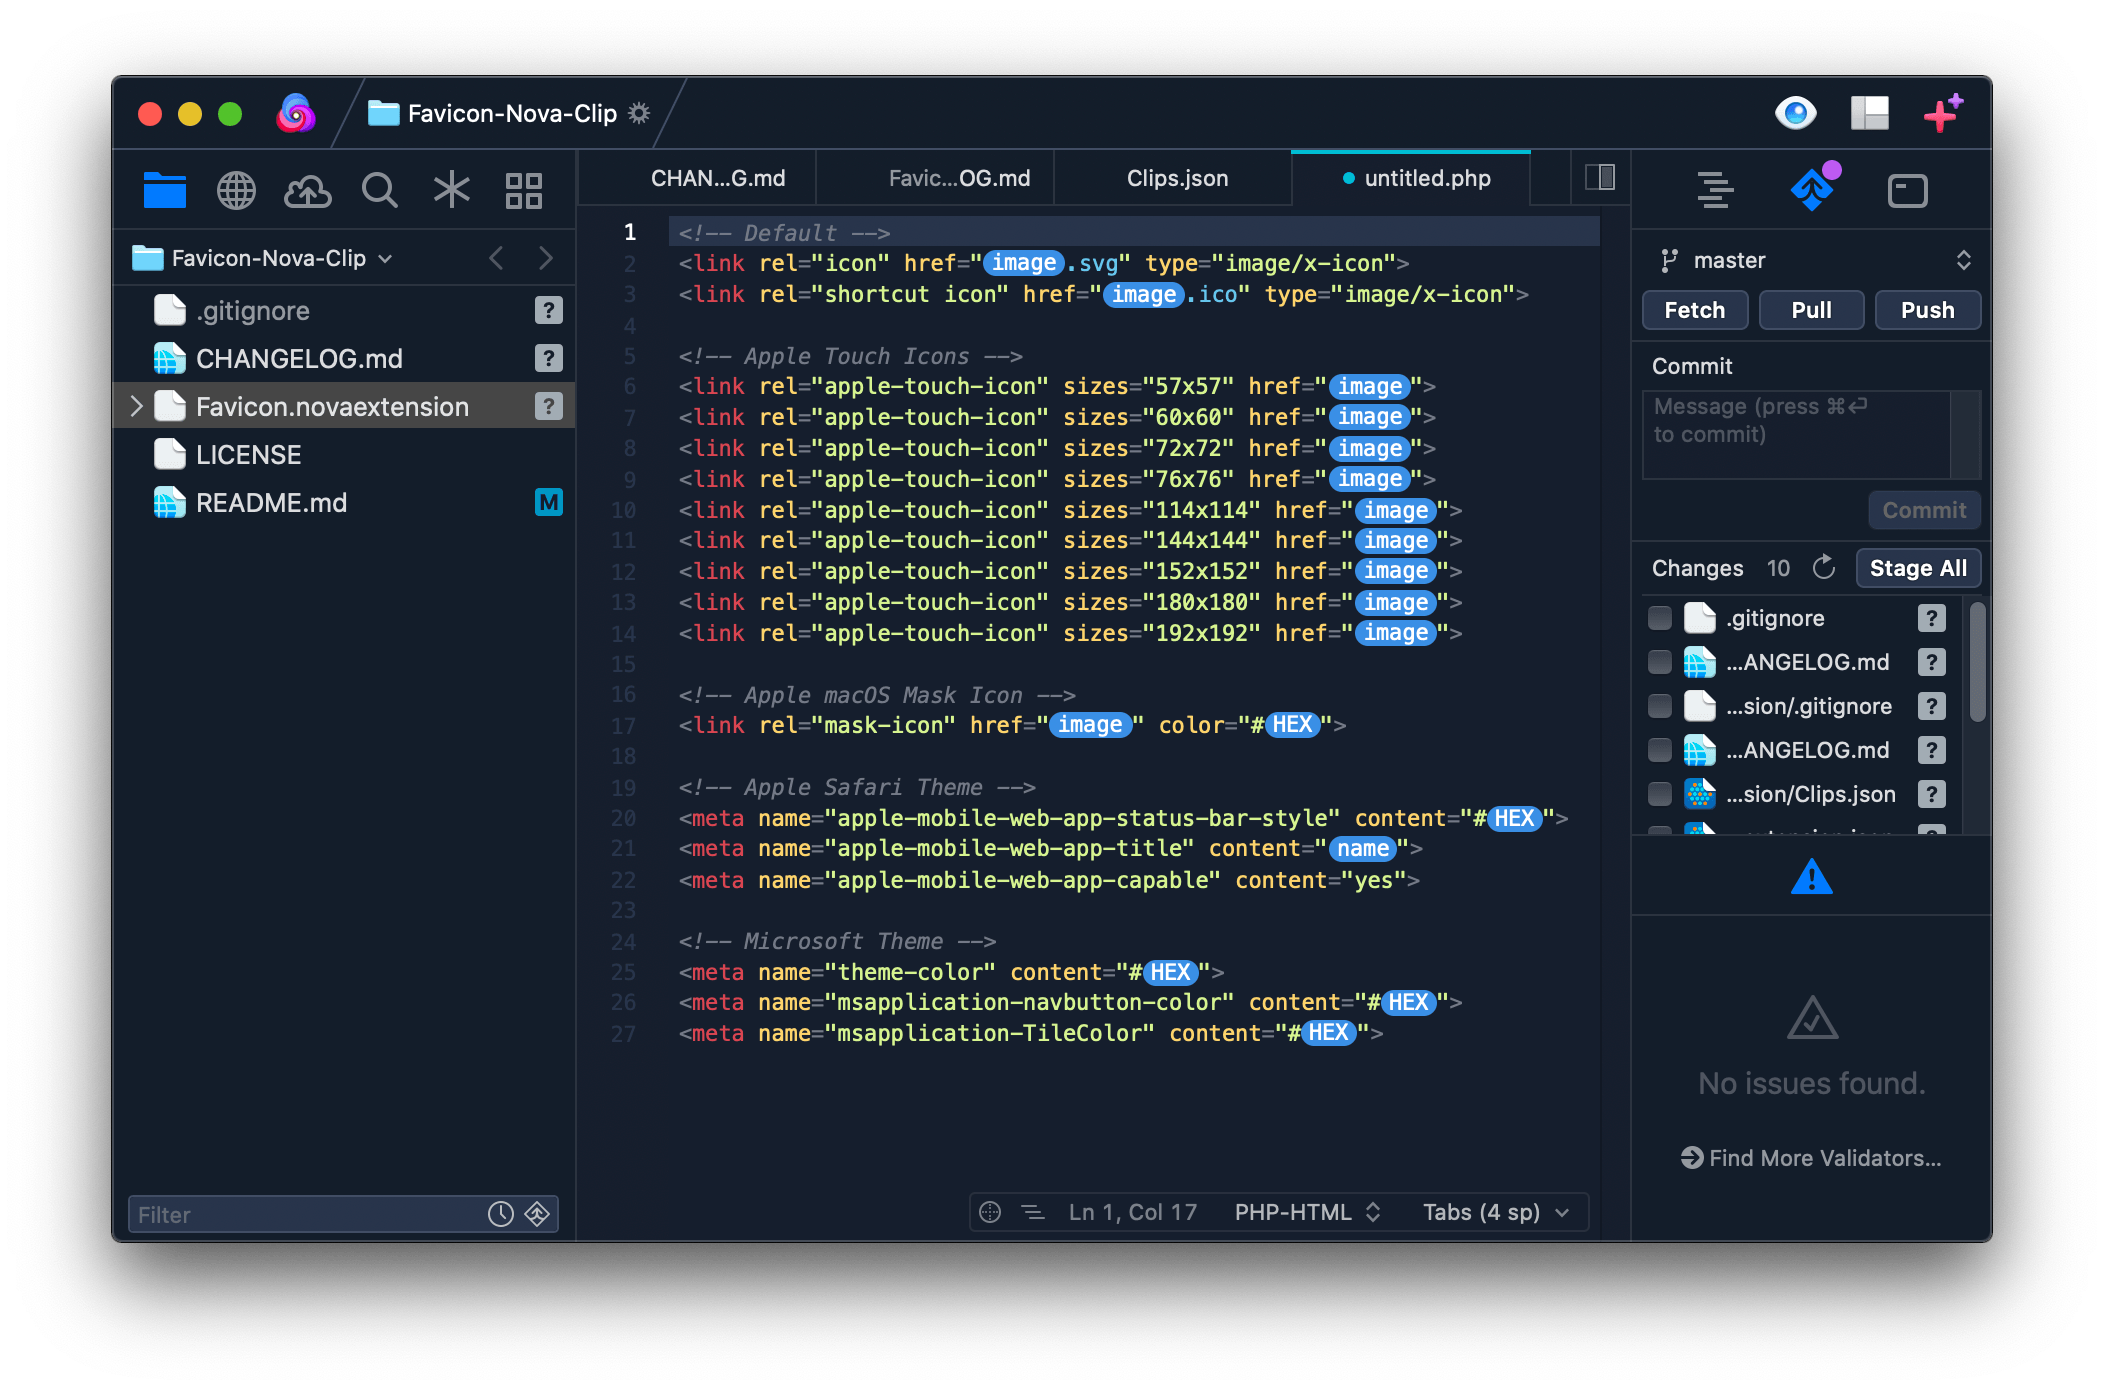
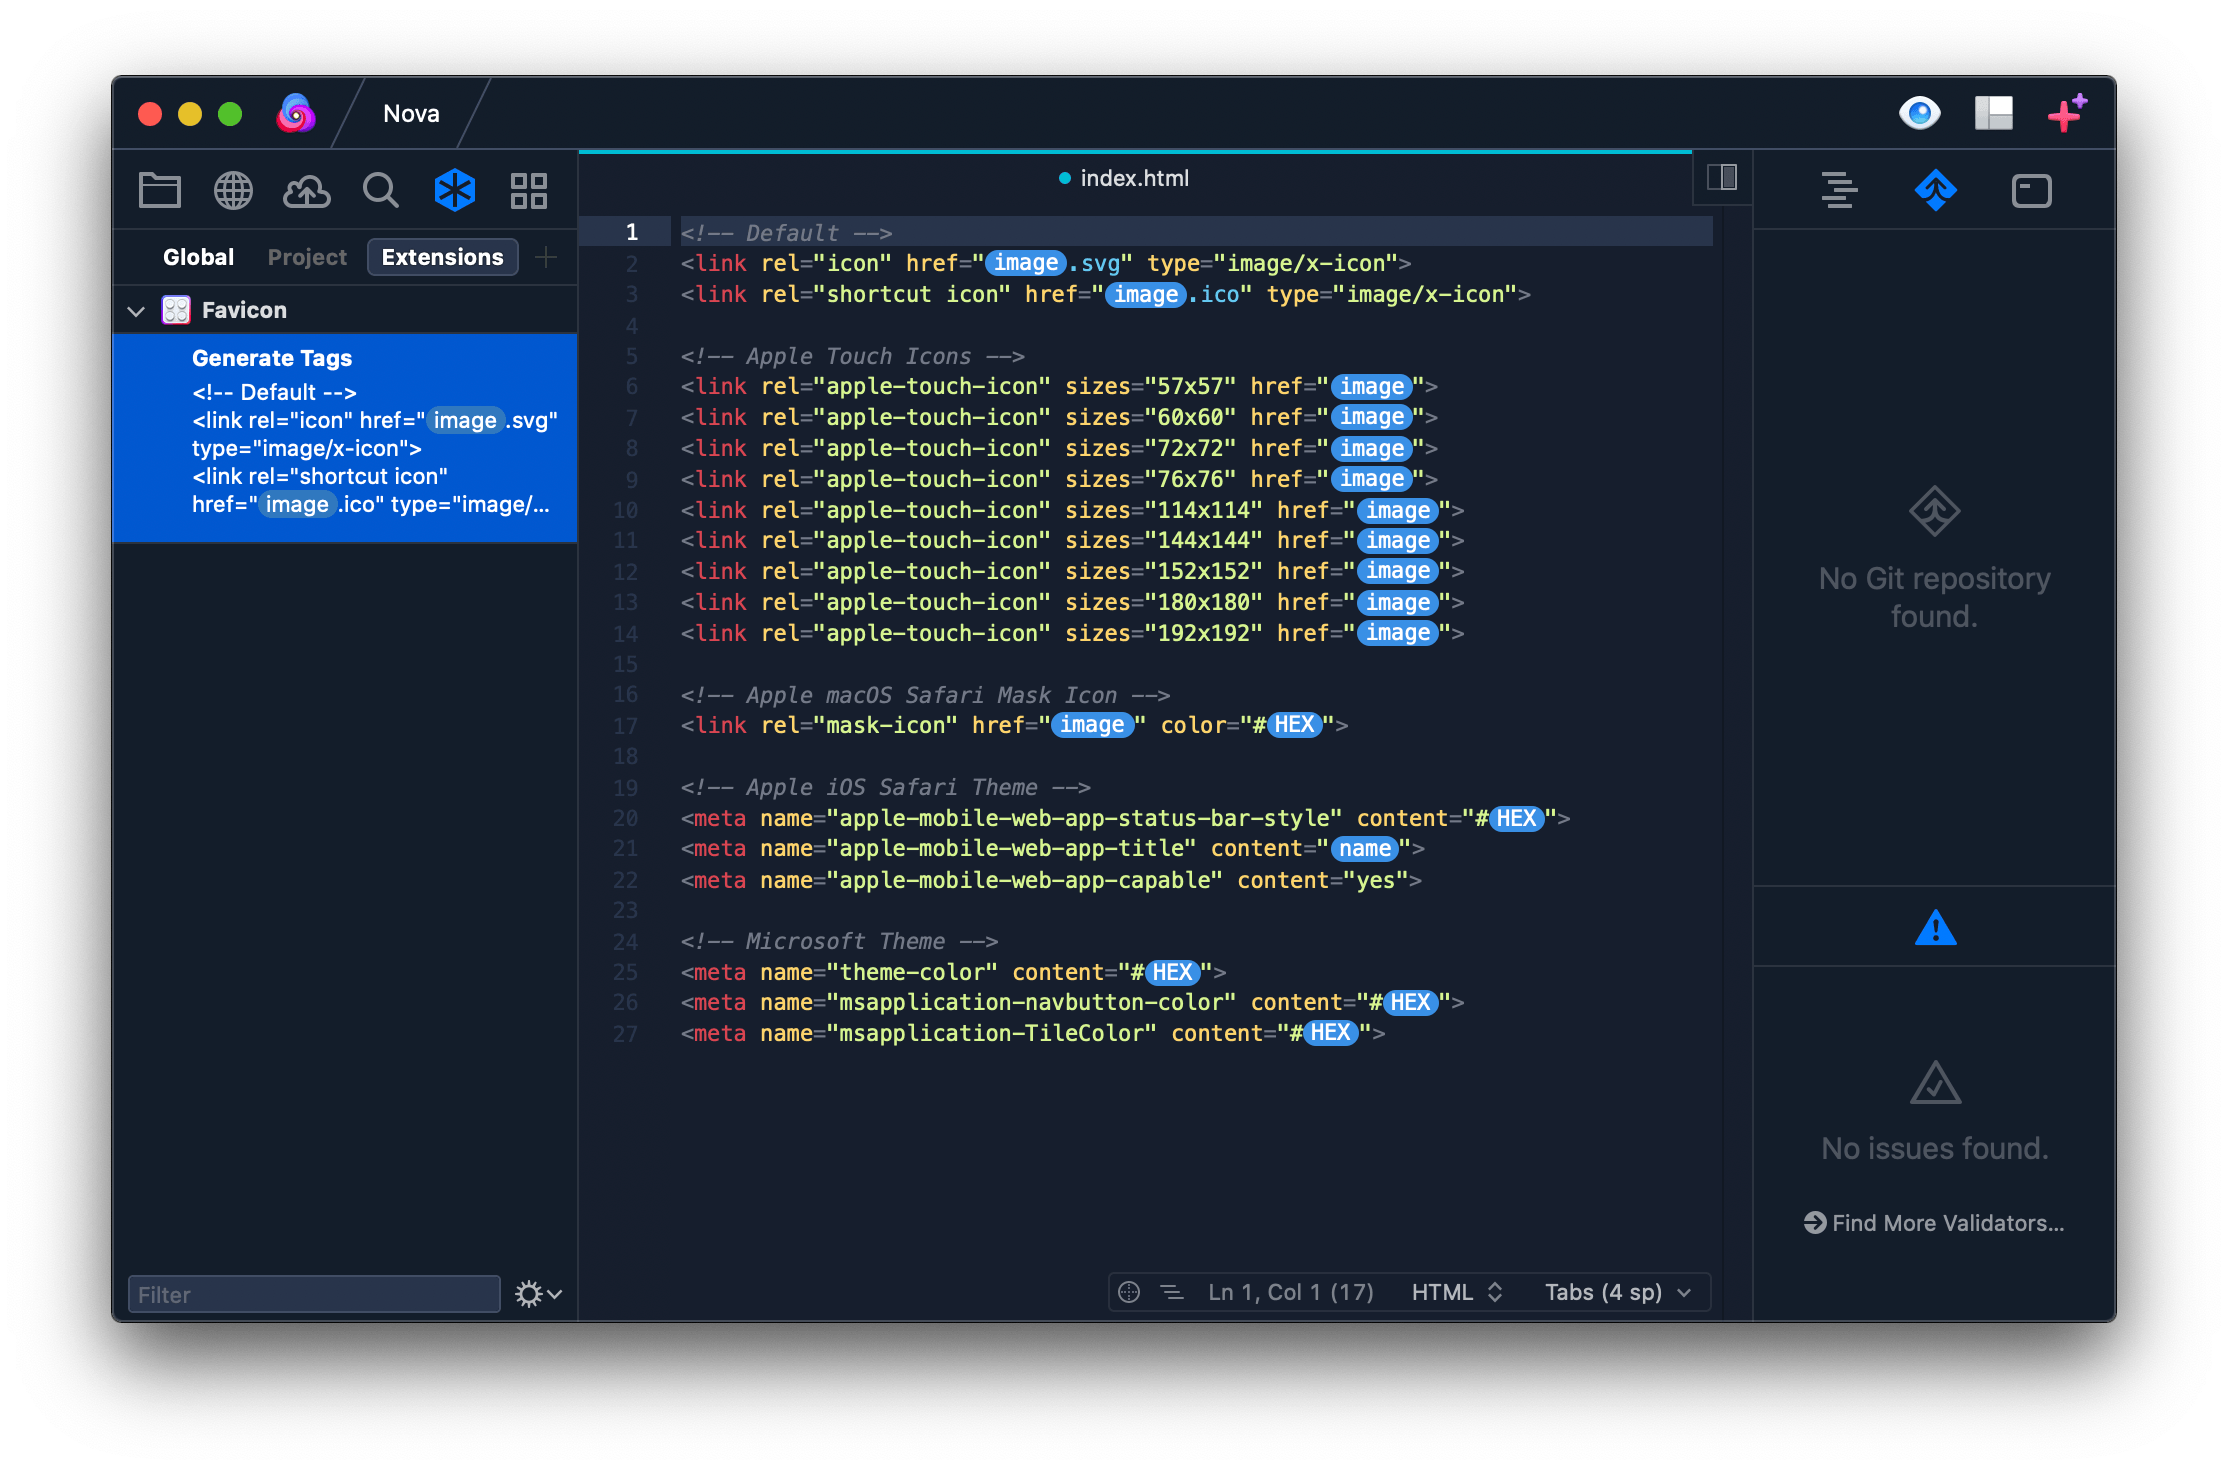
update preview

Changed region(s): [[0.0309, 0.0309, 0.9577, 0.8971], [0.8341, 0.6187, 0.8959, 0.6496]]

diff --git a/Favicon.novaextension/CHANGELOG.md b/Favicon.novaextension/CHANGELOG.md
@@ -1,3 +1,8 @@
+## Version 1.0.2
+
+- Added tags for macOS Safari
+- Fixed bugs
+
 ## Version 1.0
 
 - Initial release
